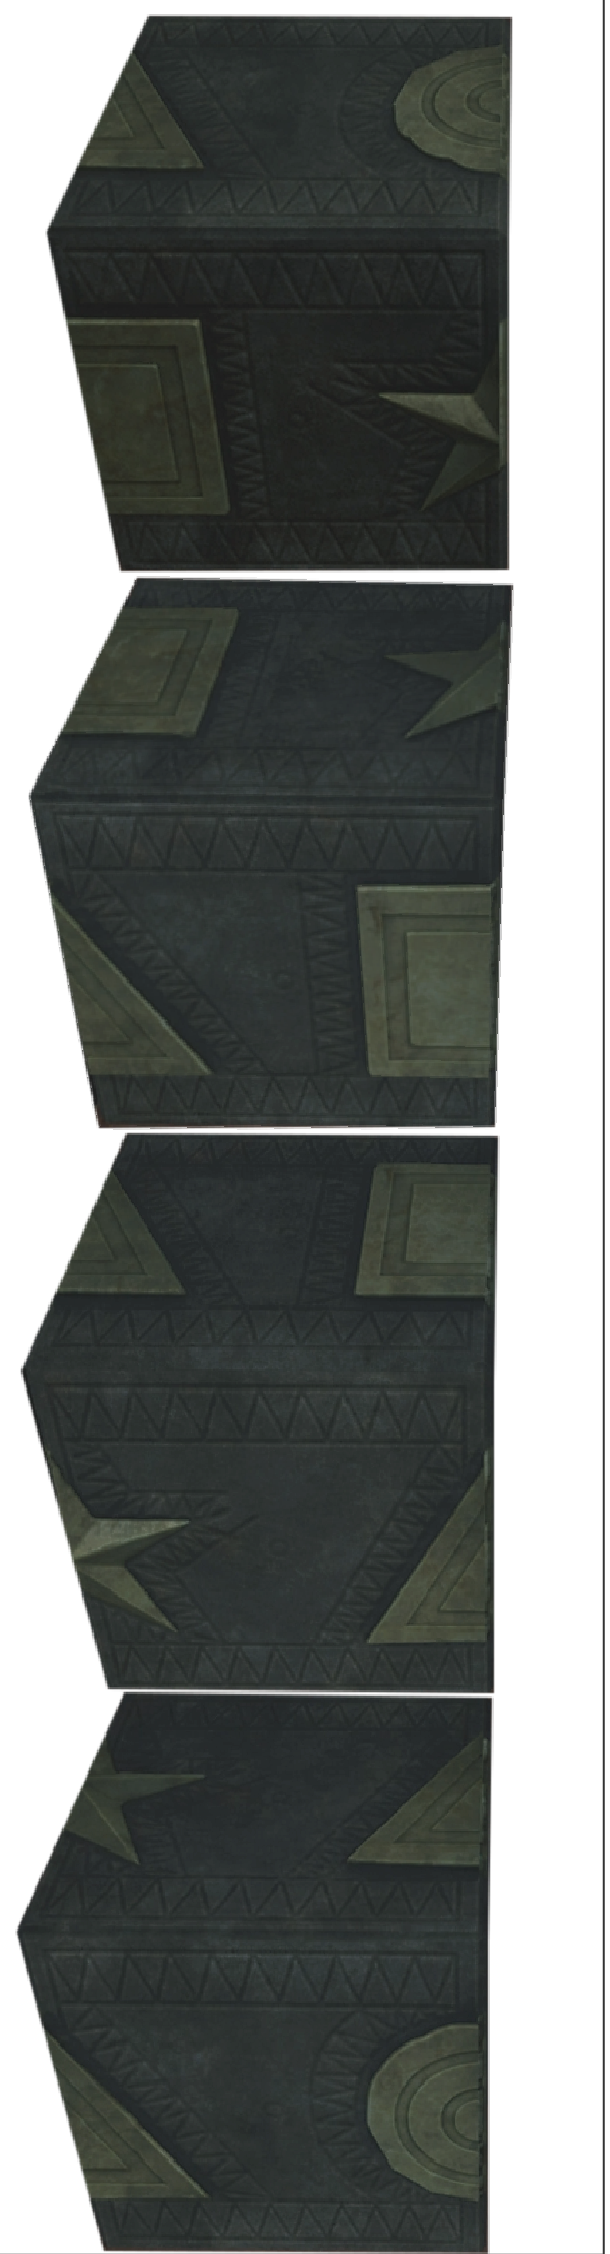
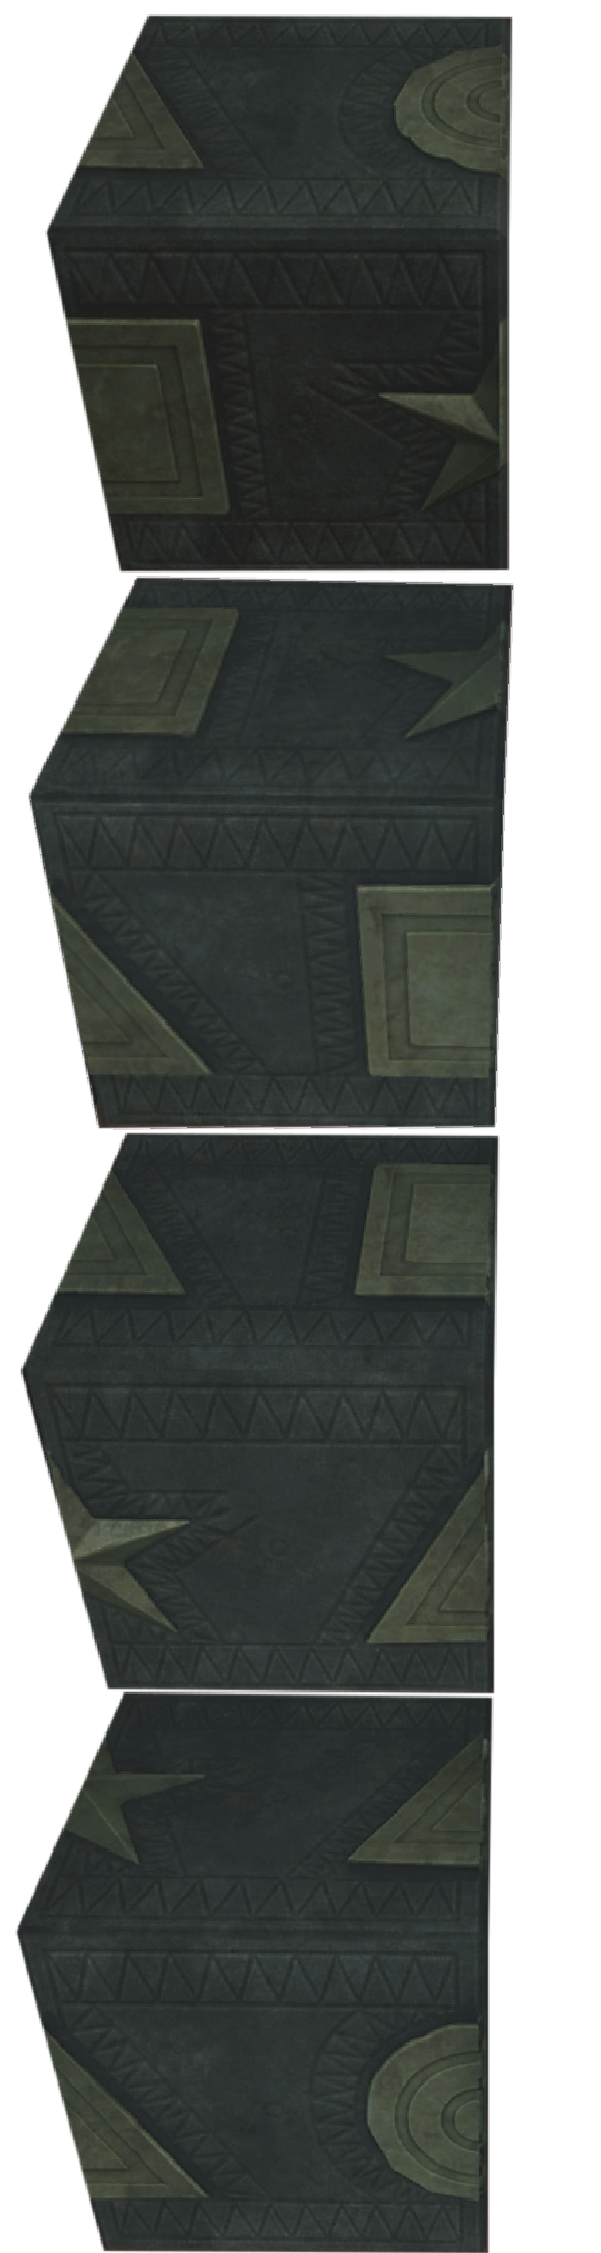
fixed assets and changed bkgrd for game

diff --git a/js/game.js b/js/game.js
@@ -1,7 +1,7 @@
 let homeScene = new Phaser.Scene('home');
 
 homeScene.preload = function() {
-    this.load.image('bkg', 'assets/bkgfull.png');
+    this.load.image('bkg', 'assets/fullbackground.png');
     this.load.image('b0', 'assets/block0-dialSheet.png');
     this.load.image('b1', 'assets/block1-dialSheet.png');
     this.load.image('b2', 'assets/block2-dialSheet.png');
@@ -14,6 +14,7 @@ homeScene.create = function() {
 
     // Background
     const bkg = this.add.image(W / 2, H / 2, 'bkg');
+    bkg.setOrigin(0.5, 0.5);
     const scaleX = W / bkg.width;
     const scaleY = H / bkg.height;
     bkg.setScale(Math.max(scaleX, scaleY));
@@ -22,31 +23,31 @@ homeScene.create = function() {
     this.add.text(W / 2, 60, 'Resident Evil 2 Block Puzzle', {
         fontFamily: 'Georgia, serif',
         fontSize: '38px',
-        fill: '#c8b97a',
+        fill: '#0cbee1',
         stroke: '#000000',
         strokeThickness: 8,
     }).setOrigin(0.5);
 
     // Layout
     const keys   = ['b0', 'b1', 'b2', 'b3'];
-    const blockW = 220;
+    const blockW = 300;
     const gap    = -40;
     const totalW = blockW * 4 + gap * 3;
     const startX = (W - totalW) / 2;
-    const blockY = 241;
+    const blockY = 220;
 
     const offsets = [
-        { x: 18, y: -3 },  // block 0
-        { x: 8, y: -8 },  // block 1
-        { x: -35, y: -1.5 },  // block 2
-        { x: -36, y: -2 },  // block 3
+        { x: 61, y: 8},  // block 0
+        { x: 28, y: -2 },  // block 1
+        { x: -44, y: 8 },  // block 2
+        { x: -63, y: 6 },  // block 3
     ];
 
     keys.forEach((key, i) => {
         const src  = this.textures.get(key).getSourceImage();
         const rotH = src.height / 4;
         const scale = blockW / src.width;
-        const cropH = i === 0 ? rotH - 18 : rotH;
+        const cropH = i === 0 ? rotH - 11 : i === 1 ? rotH - 1 : rotH;
 
         this.add.image(startX + i * (blockW + gap) + offsets[i].x, blockY + offsets[i].y, key)
             .setOrigin(0, 0)
